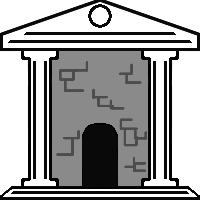
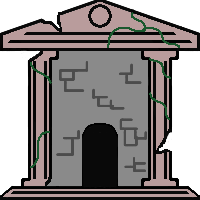
фикс основных проблем с физикой

Changed region(s): [[0.0, 0.0, 0.99, 0.99]]

diff --git a/src/scenes/PlayerClass.js b/src/scenes/PlayerClass.js
@@ -65,7 +65,7 @@ export class PlayerClass {
         if (!this.isDashing && this.canControl) {
             // Влево
             if (this.keys.left.isDown && !this.keys.right.isDown && this.canControl) {
-                if (!this.player.body.touching.down) {
+                if (!this.player.body.blocked.down) {
                     this.player.setVelocityX(-500);
                 } else {
                     this.player.setVelocityX(-400);
@@ -74,7 +74,7 @@ export class PlayerClass {
             }
             // Вправо
             else if (this.keys.right.isDown && !this.keys.left.isDown && this.canControl) {
-                if (!this.player.body.touching.down) {
+                if (!this.player.body.blocked.down) {
                     this.player.setVelocityX(500);
                 } else {
                     this.player.setVelocityX(400);
@@ -89,45 +89,30 @@ export class PlayerClass {
             }
 
             // Прыжок с земли
-            if ((this.keys.up.isDown || this.spaceButton.isDown) && this.player.body.touching.down) {
+            if ((this.keys.up.isDown || this.spaceButton.isDown) && this.player.body.blocked.down) {
                 this.player.setVelocityY(-500);
             }
 
             // Состояние падения
-            if (this.player.body.velocity.y != 0 && !this.player.body.touching.down && !this.player.body.touching.up) {
+            if (this.player.body.velocity.y != 0 && !this.player.body.blocked.down && !this.player.body.blocked.up) {
                 this.inAir = true;
             } else {
                 this.inAir = false;
             }
 
             // --- Взаимодействие со стеной ---
-            if (!this.player.body.touching.down && this.canControl) {
+            if (!this.player.body.blocked.down && this.canControl) {
                 const wantJump = this.keys.up.isDown || this.spaceButton.isDown;
                 const touchingLeft = this.player.body.touching.left || this.player.body.blocked.left;
                 const touchingRight = this.player.body.touching.right || this.player.body.blocked.right;
                 
                 // --- Отскок от стены ---
                 if (wantJump) {
-                    if (touchingLeft && this.canJumpLeft) {
+                    if (touchingLeft && this.canJumpRight) {
                         this.player.x += 6;                       
                         this.player.setVelocityX(300);
                         this.player.setVelocityY(-600);
                         this.player.setFlipX(false);
-                        this.canControl = false;
-                        this.canJumpLeft = false;
-
-                        this.scene.time.delayedCall(500, () => {
-                            this.player.setVelocityX(0);
-                            this.canControl = true;
-                        });
-                        this.scene.time.delayedCall(1180, () => this.canJumpLeft = true);
-                    }
-                    
-                    else if (touchingRight && this.canJumpRight) {
-                        this.player.x -= 6;
-                        this.player.setVelocityX(-300);
-                        this.player.setVelocityY(-600);
-                        this.player.setFlipX(true);
                         this.canControl = false;
                         this.canJumpRight = false;
 
@@ -136,6 +121,21 @@ export class PlayerClass {
                             this.canControl = true;
                         });
                         this.scene.time.delayedCall(1180, () => this.canJumpRight = true);
+                    }
+                    
+                    else if (touchingRight && this.canJumpLeft) {
+                        this.player.x -= 6;
+                        this.player.setVelocityX(-300);
+                        this.player.setVelocityY(-600);
+                        this.player.setFlipX(true);
+                        this.canControl = false;
+                        this.canJumpLeft = false;
+
+                        this.scene.time.delayedCall(500, () => {
+                            this.player.setVelocityX(0);
+                            this.canControl = true;
+                        });
+                        this.scene.time.delayedCall(1180, () => this.canJumpLeft = true);
                     }
                 }
 
@@ -150,7 +150,7 @@ export class PlayerClass {
                 }
             }
 
-            if (this.player.body.touching.down) {
+            if (this.player.body.blocked.down) {
                 this.canWallJump = true;
                 this.canJumpLeft = true;
                 this.canJumpRight = true;
@@ -186,7 +186,7 @@ export class PlayerClass {
         }
 
         // --- Атака ---
-        if (!this.isDashing && !this.isAttacking && this.player.body.touching.down) {
+        if (!this.isDashing && !this.isAttacking && this.player.body.blocked.down) {
             if (Phaser.Input.Keyboard.JustDown(this.keys.attack) || this.attackButtonPressed) {
                 this.isAttacking = true;
                 this.canControl = false;
@@ -214,7 +214,7 @@ export class PlayerClass {
             return;
         }
 
-        if (this.player.body.touching.down) {
+        if (this.player.body.blocked.down) {
             // на земле
             if (this.keys.left.isDown && this.keys.right.isDown) {
                 this.player.play('idle', true);

diff --git a/src/assets.js b/src/assets.js
@@ -2,7 +2,7 @@ export default {
     'image': {
         backgroundImage: {
             key: 'background',
-            args: ['assets/bg.png']
+            args: ['assets/bg.png'] // args: ['assets/bg.png']
         },
         button: {
             key: 'button',
@@ -31,6 +31,10 @@ export default {
         cave_entry: {
             key: 'cave_entry',
             args: ['assets/Temple1.png']
+        },
+        tile: {
+            key: 'tile',
+            args: ['assets/tile.png']
         }
     },
     'spritesheet': {

diff --git a/src/main.js b/src/main.js
@@ -21,7 +21,8 @@ const config = {
     physics: {
         default: 'arcade',
         arcade: {
-            gravity: { y: 1000 }
+            gravity: { y: 1000 },
+            fps: 240    
         }
     },
     scene: [
